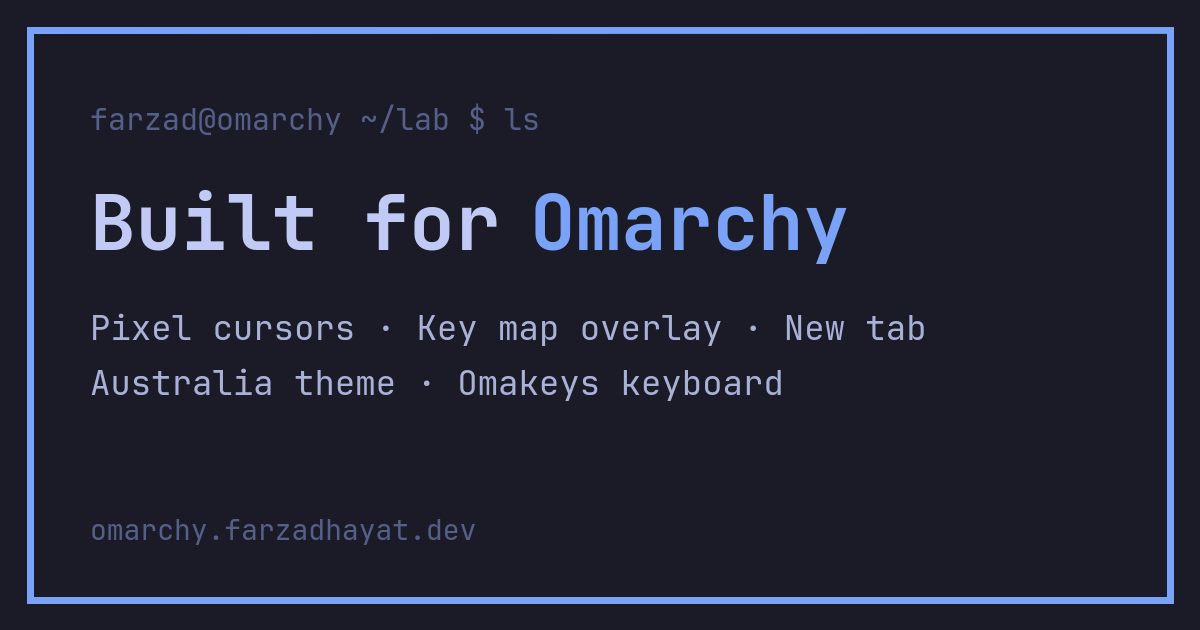
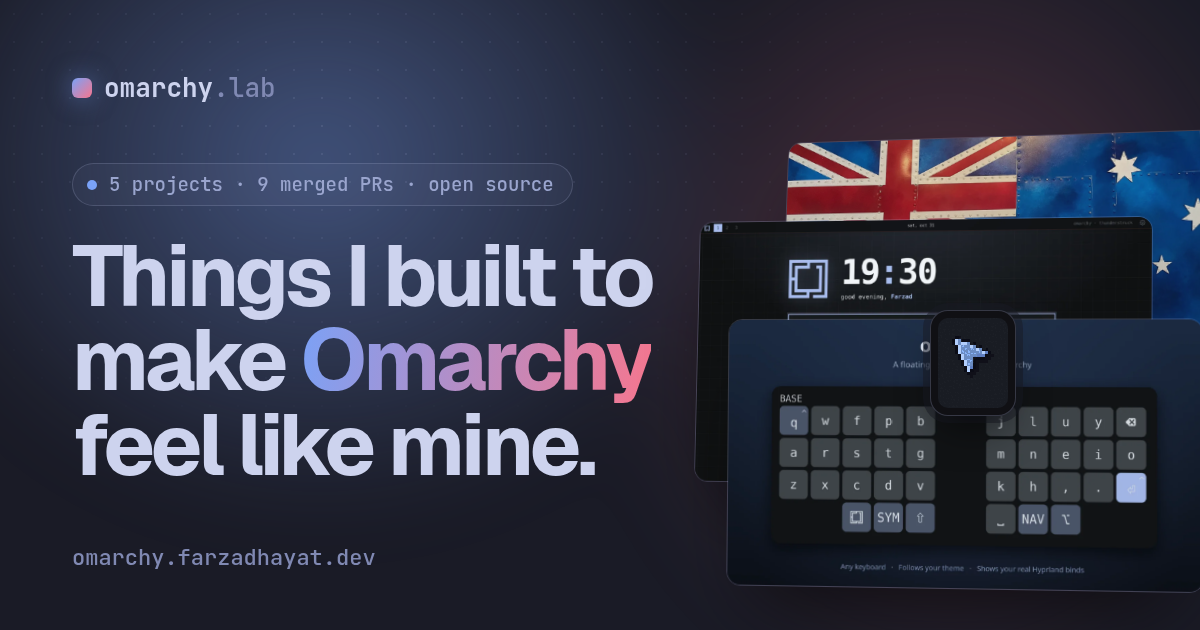
Refresh social preview image to match new design

diff --git a/index.html b/index.html
@@ -11,7 +11,7 @@
   <meta property="og:url" content="https://omarchy.farzadhayat.dev/">
   <meta property="og:title" content="Farzad's Omarchy Lab">
   <meta property="og:description" content="Pixel cursors, a live key map overlay, a themed new tab page, a theme and a keyboard. Built for Omarchy, ready to install.">
-  <meta property="og:image" content="https://omarchy.farzadhayat.dev/img/social.png">
+  <meta property="og:image" content="https://omarchy.farzadhayat.dev/img/social.png?v=2">
   <meta property="og:image:width" content="1200">
   <meta property="og:image:height" content="630">
   <meta name="twitter:card" content="summary_large_image">
